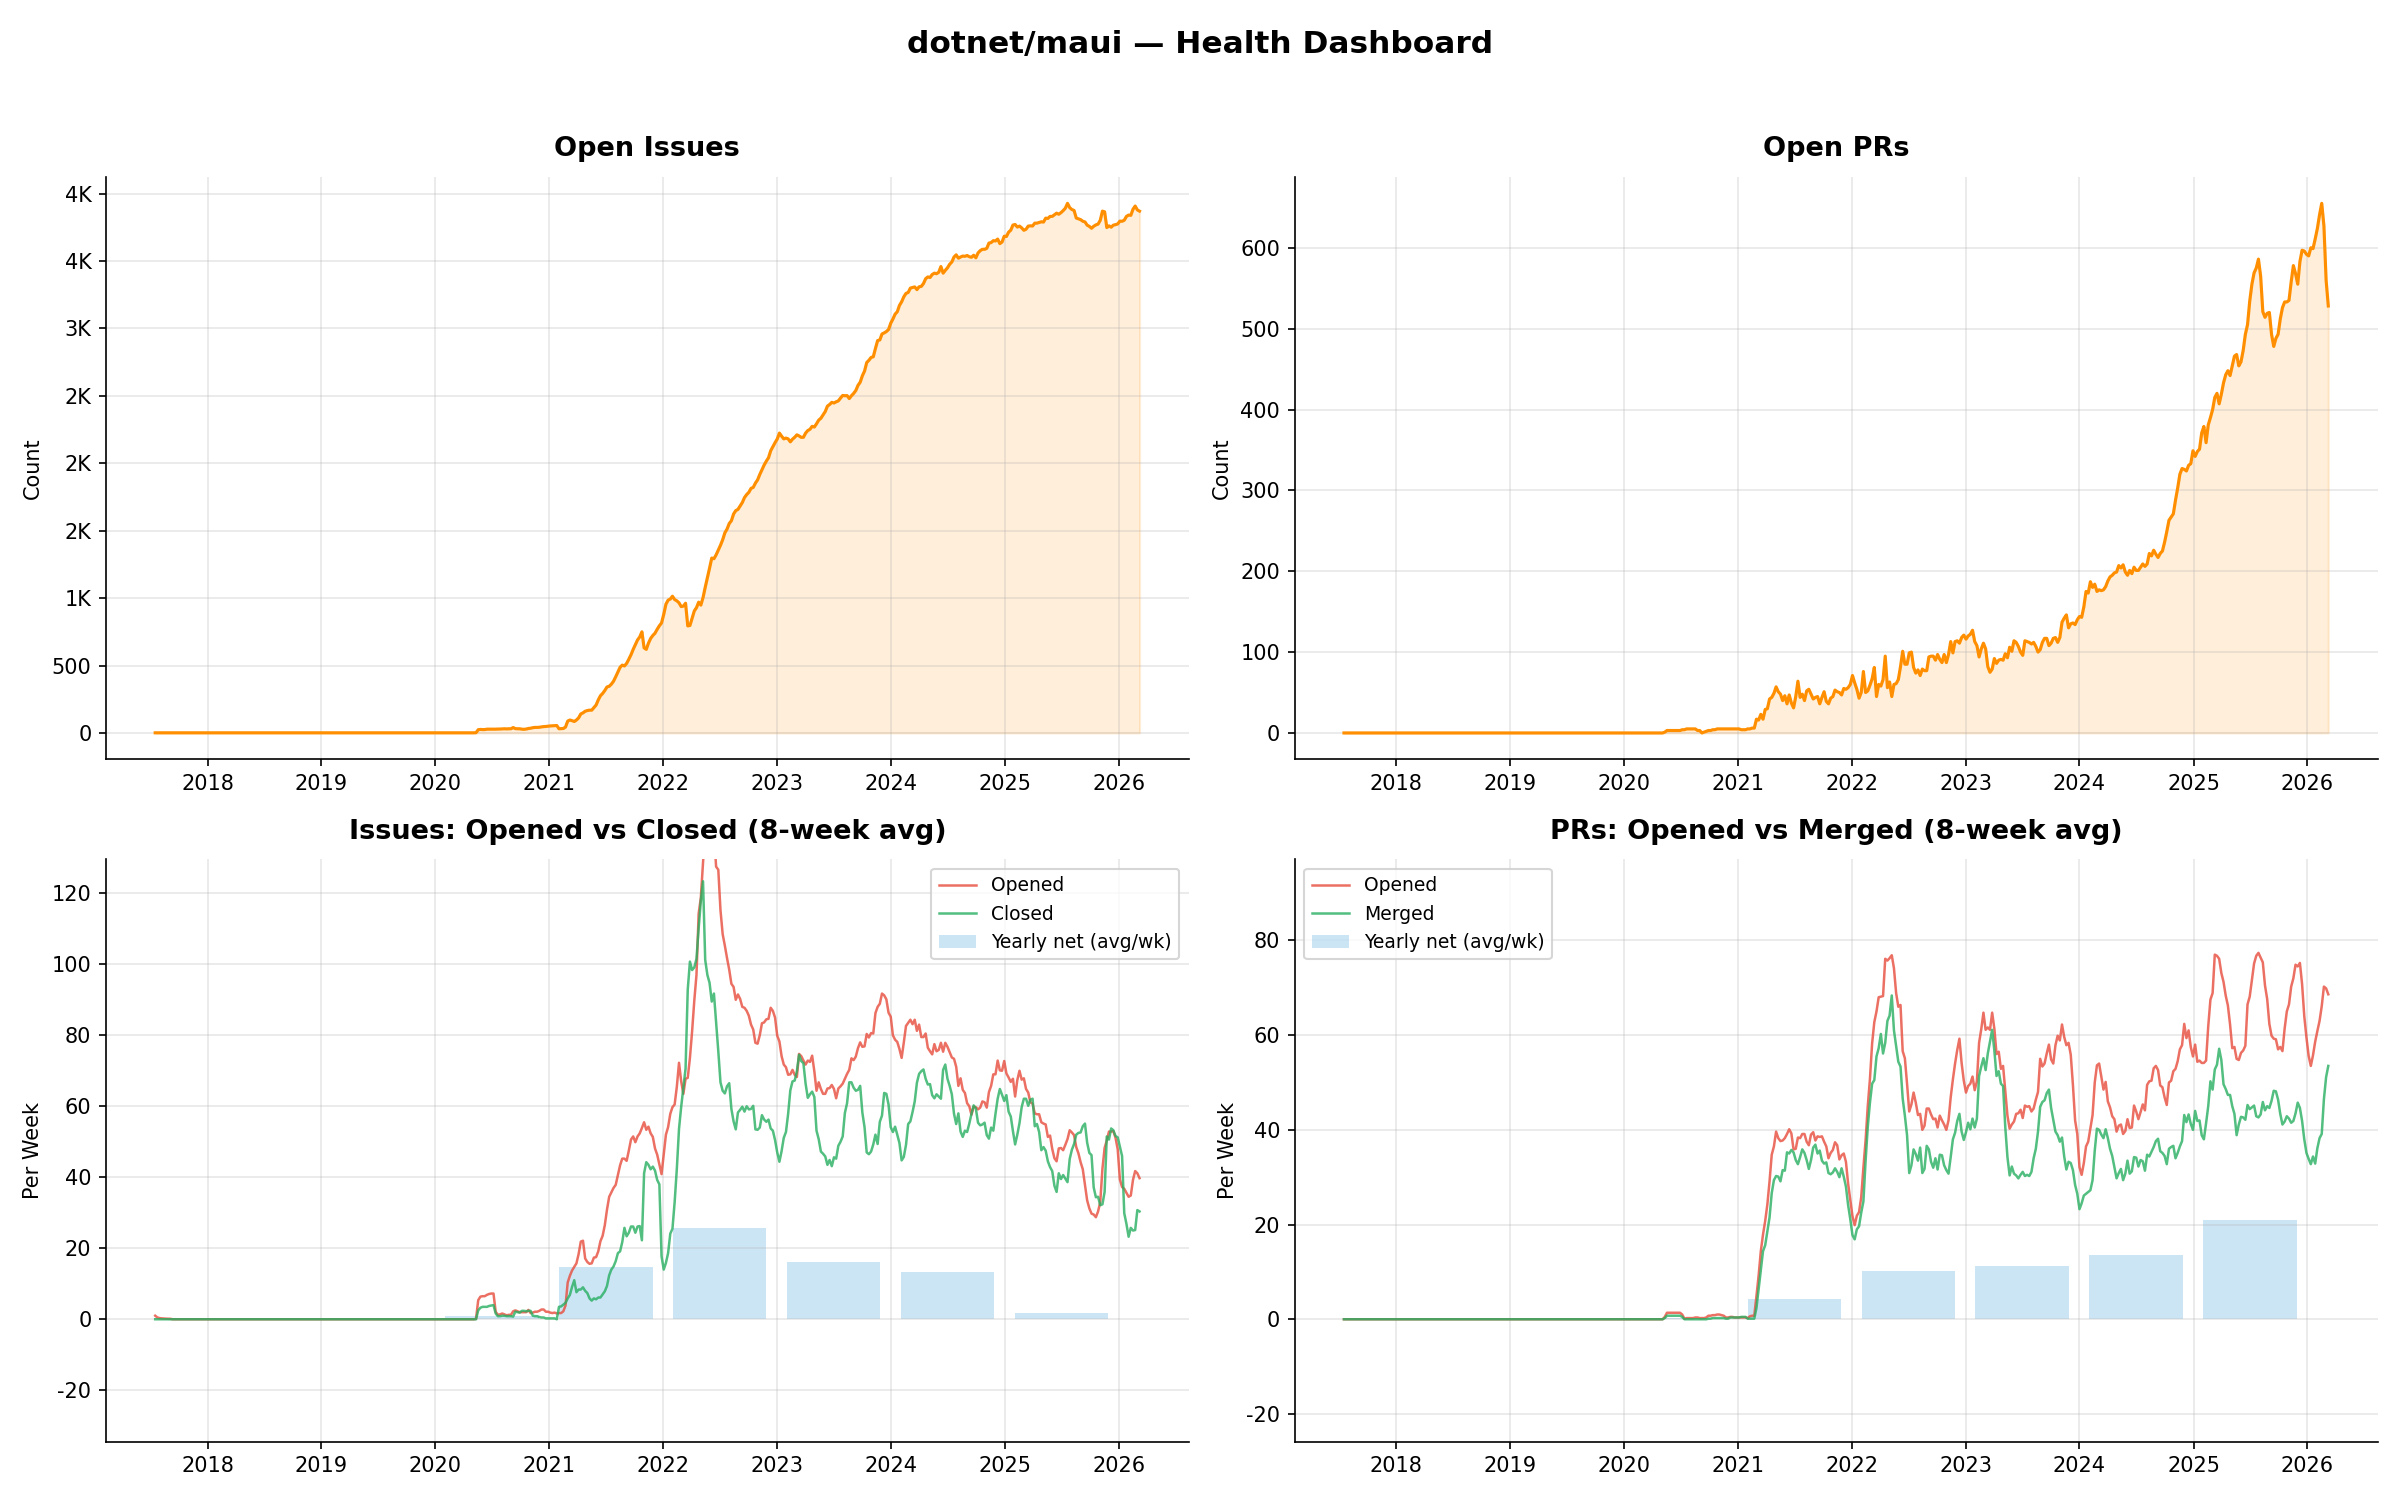
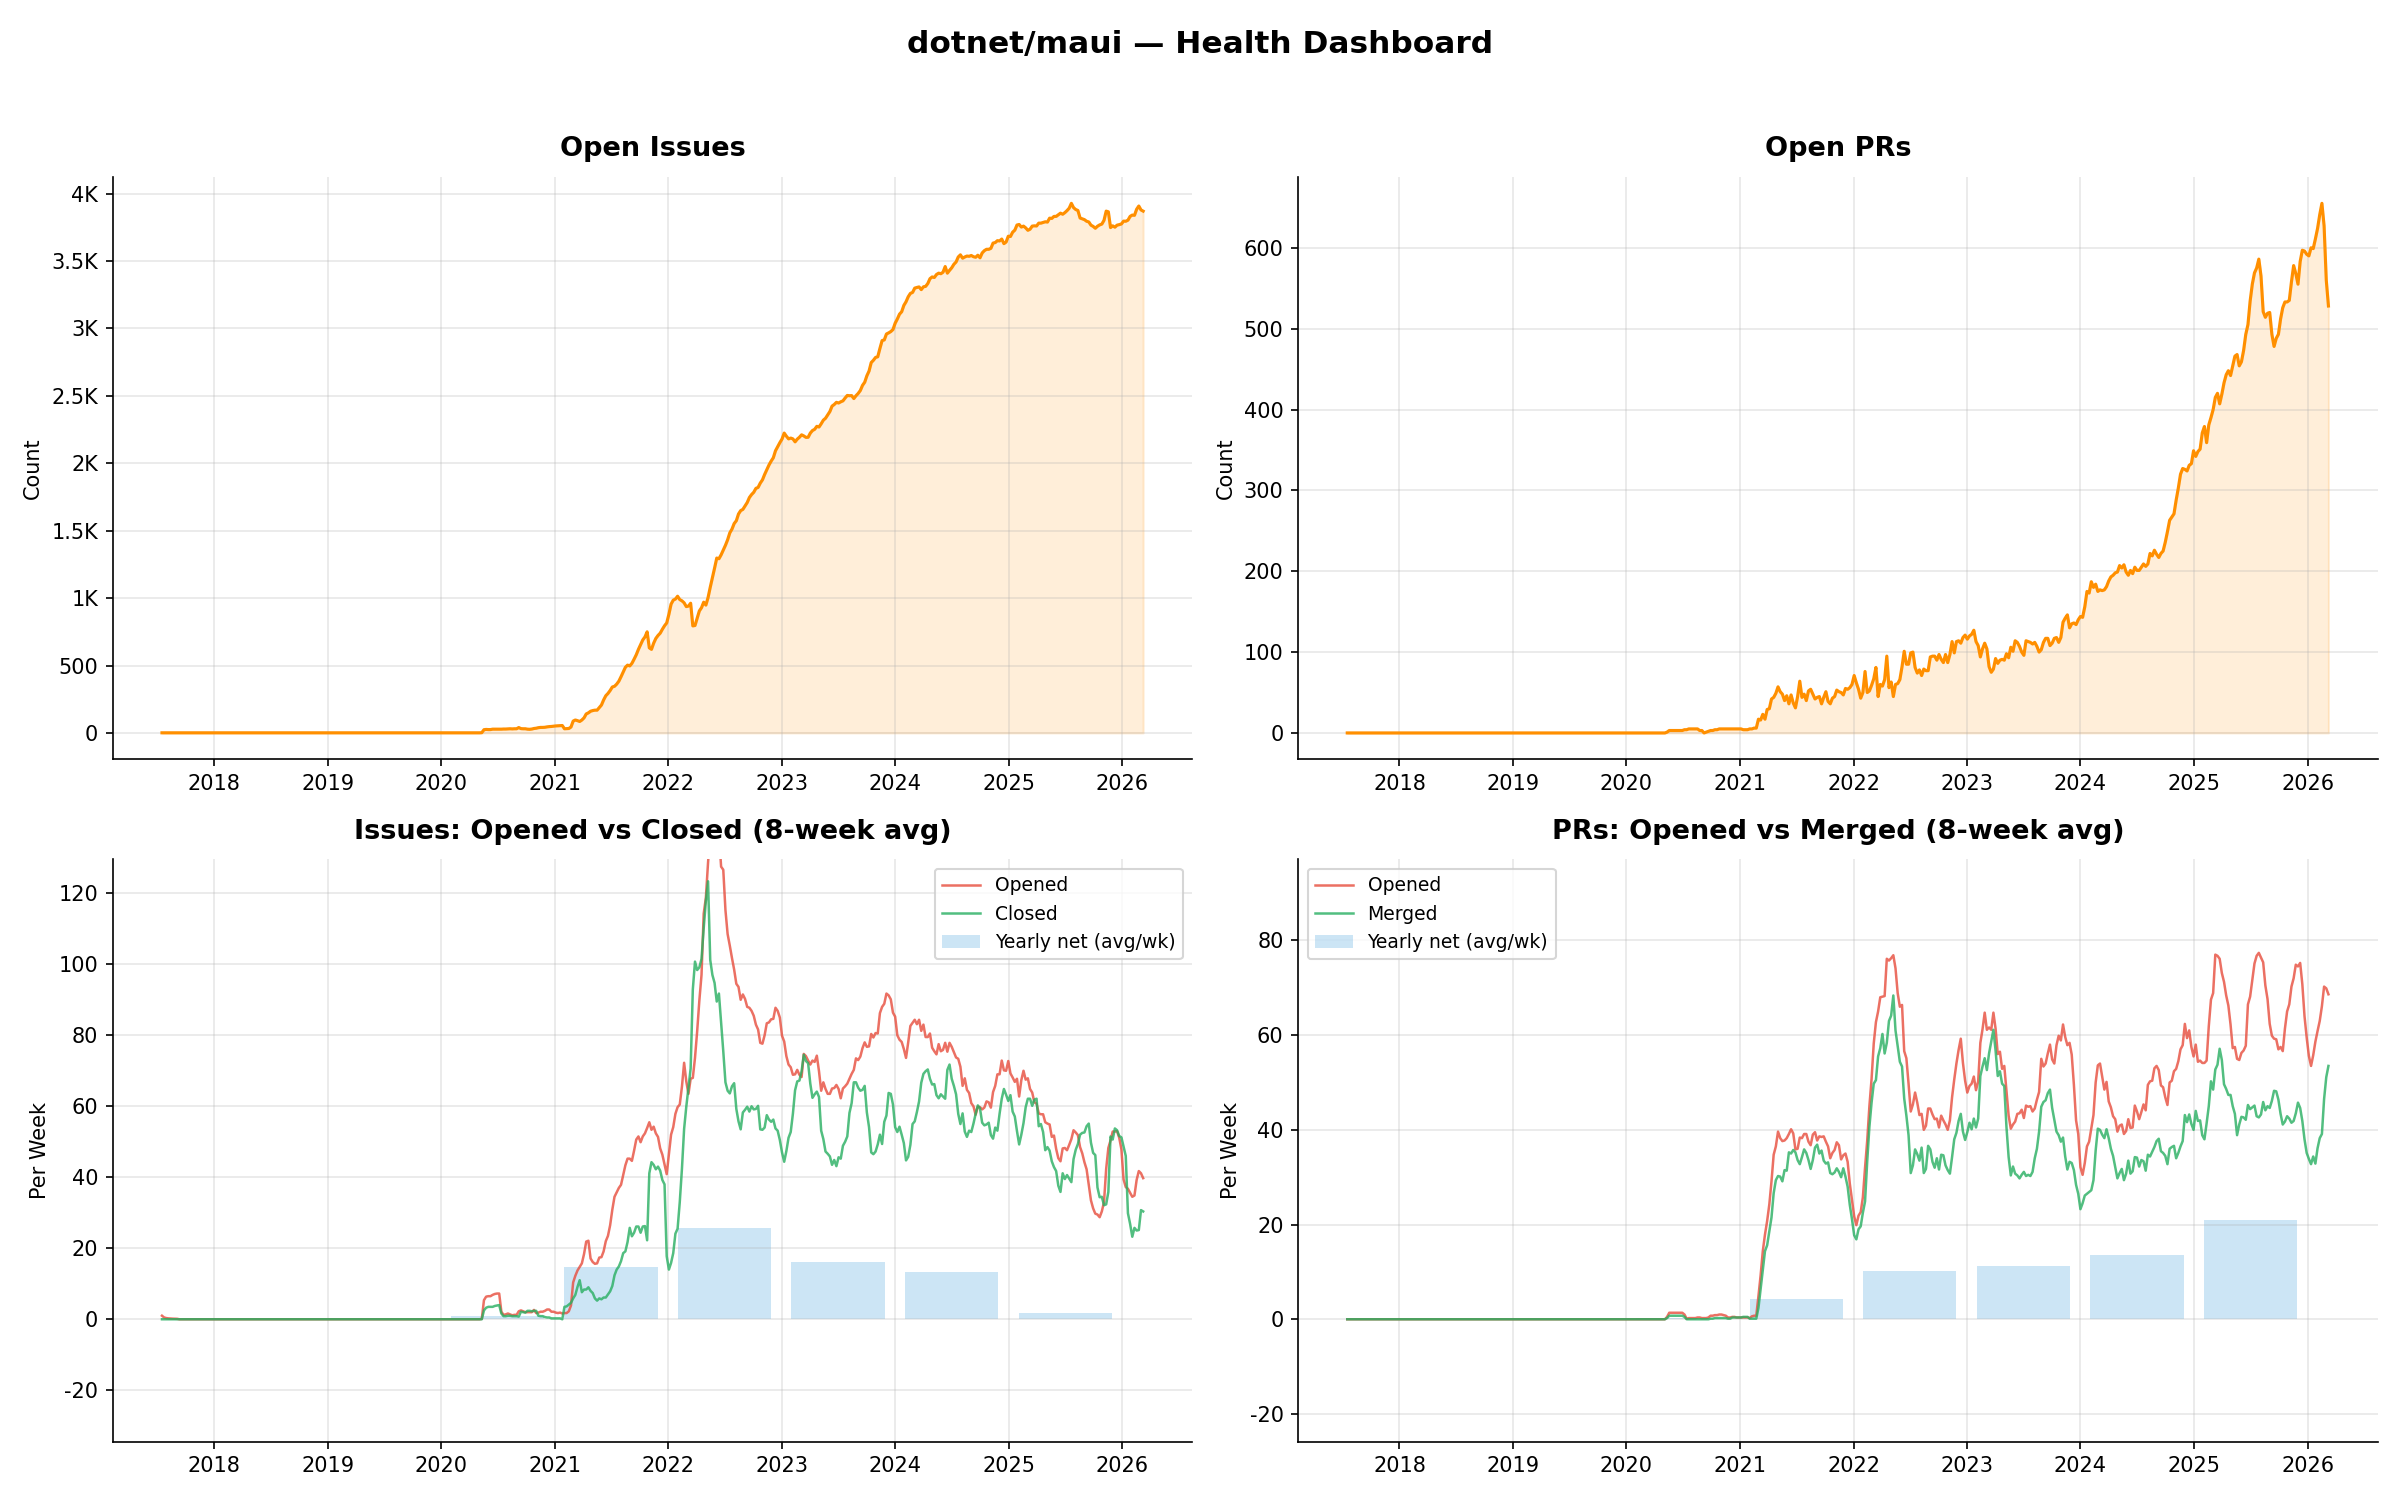
Add README, fix duplicate Y-axis tick labels (3.5K vs 4K)

diff --git a/analyze.py b/analyze.py
@@ -432,8 +432,12 @@ def robust_ylim(data_series_list, padding=1.3, symmetric=False, percentile=0.95)
 
 
 def thousands_formatter(x, pos):
-    if x >= 1000:
-        return f"{x/1000:.0f}K"
+    if abs(x) >= 1000:
+        val = x / 1000
+        # Use 1 decimal if it would disambiguate (e.g. 3.5K vs 4K)
+        if val != int(val):
+            return f"{val:.1f}K"
+        return f"{val:.0f}K"
     return f"{x:.0f}"
 
 

diff --git a/README.md b/README.md
@@ -1,0 +1,5 @@
+# Repo Health Metrics
+
+Sustainability and health metrics for large GitHub repositories, comparing dotnet/runtime, dotnet/roslyn, dotnet/maui, microsoft/vscode, rust-lang/rust, and golang/go.
+
+**[View the charts](https://danmoseley.github.io/repo-health-metrics/)**
